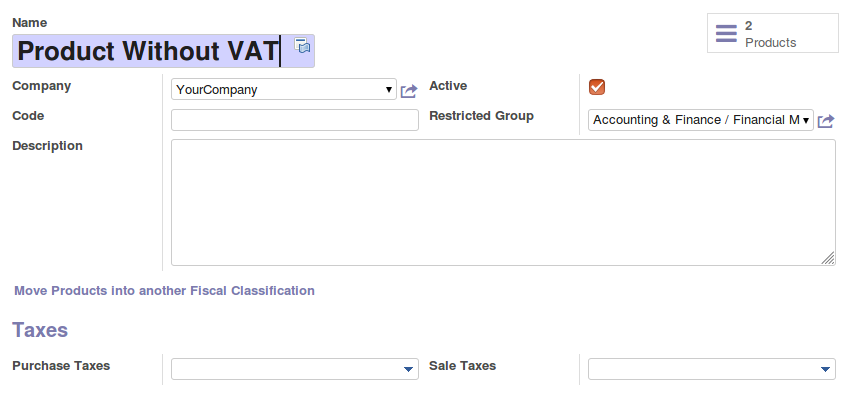
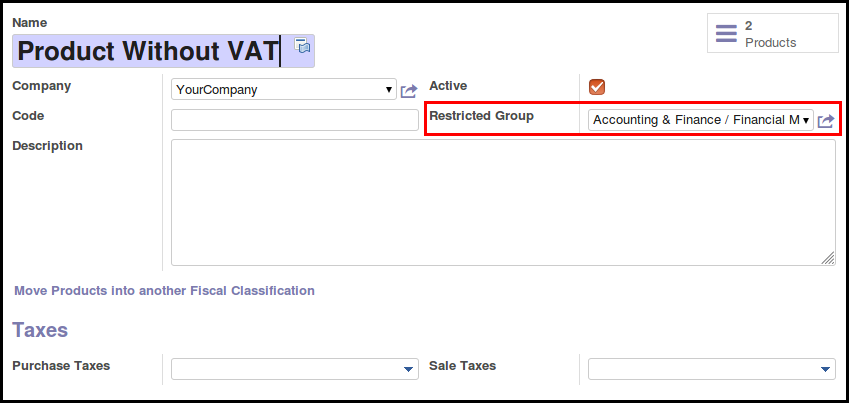
[ADD] translation + [IMP] images

Changed region(s): [[0.0, 0.0, 1.0, 1.0]]

diff --git a/account_product_fiscal_classification_restricted_usage/__openerp__.py b/account_product_fiscal_classification_restricted_usage/__openerp__.py
@@ -17,6 +17,7 @@
         'views/view_account_product_fiscal_classification.xml',
     ],
     'images': [
-        'static/description/img/product_template_warning.png'
+        'static/description/product_template_warning.png',
+        'static/description/account_product_fiscal_classification_form.png',
     ],
 }
